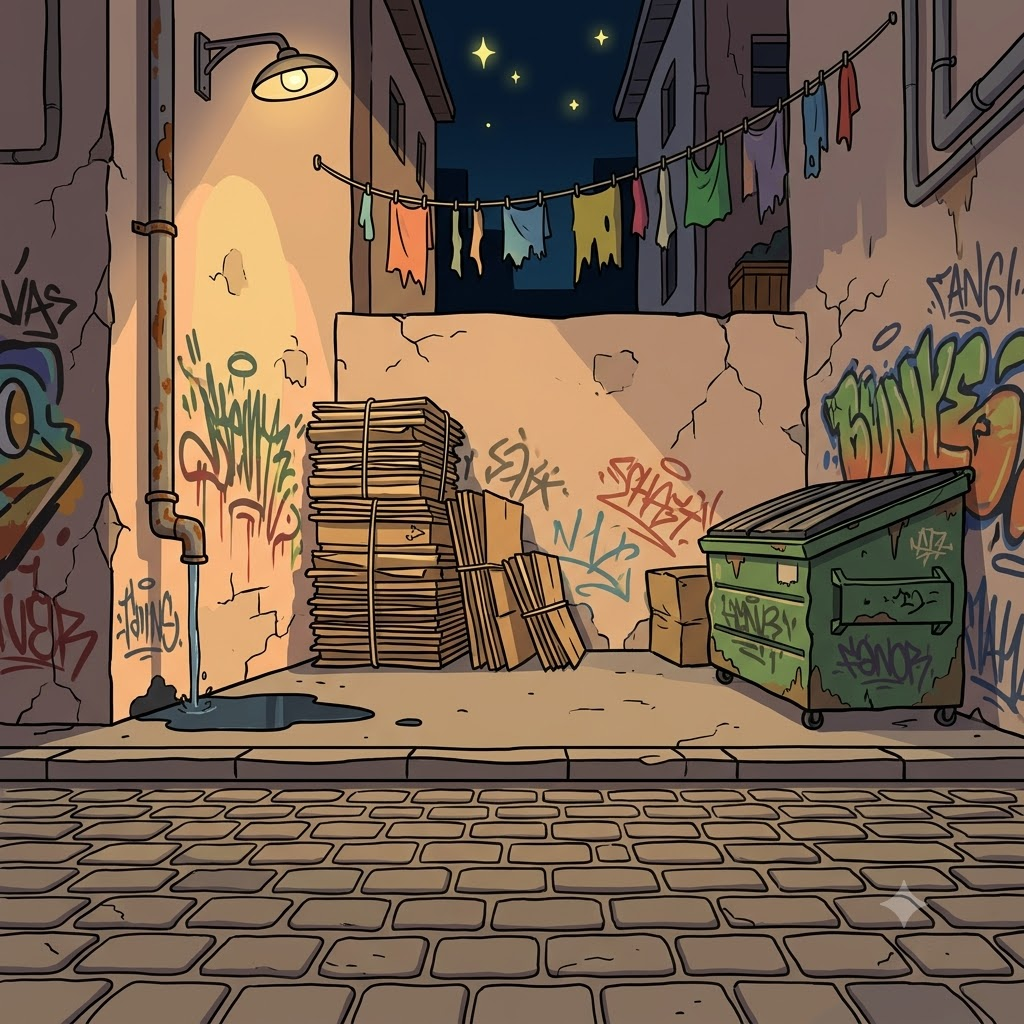
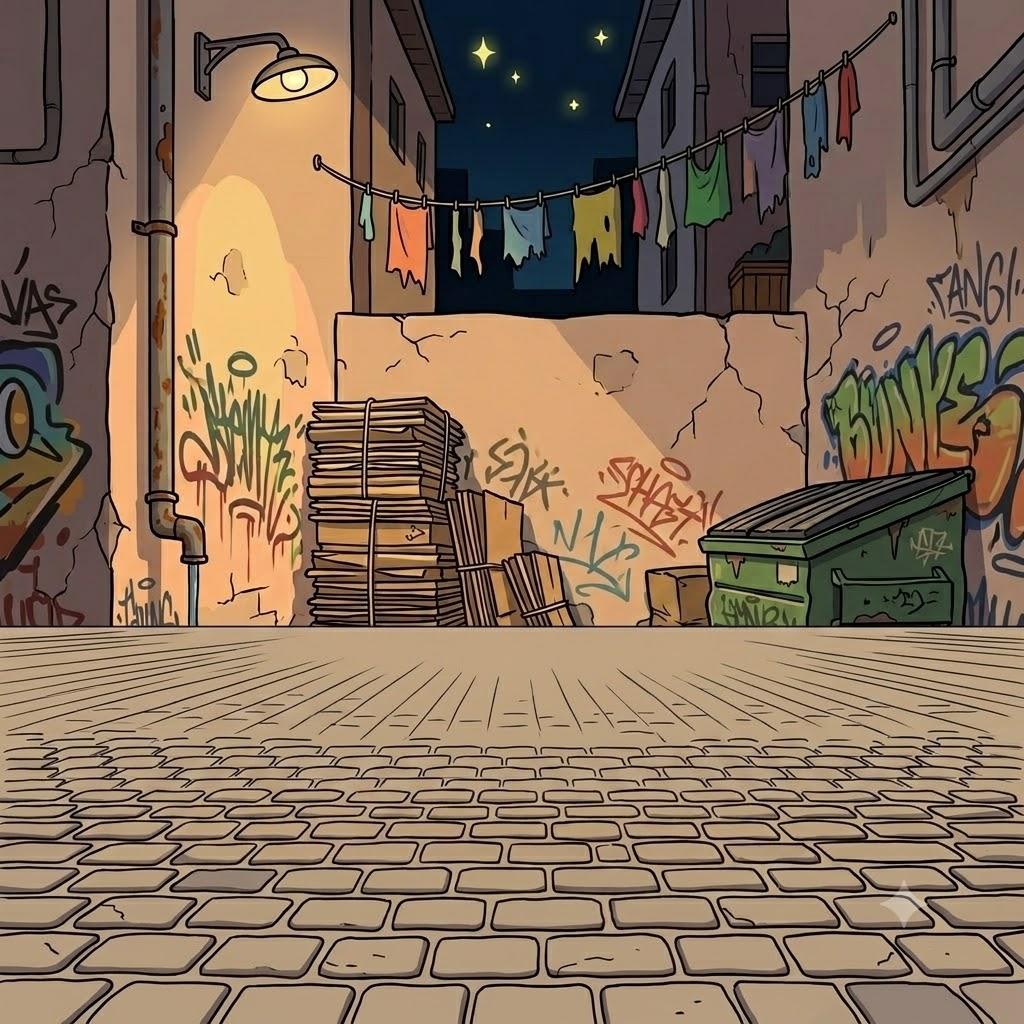
feat(arte): el callejón nuevo, con el piso en perspectiva que sí se lee
Tercera iteración del prompt y la primera que sirve. El adoquinado tiene
perspectiva con líneas convergentes, textura propia y más detalle cerca del borde
inferior; el decorado —farol, ropa colgada, cartones, contenedor— quedó intacto.

Medido, y el número que importa es el de PANTALLA, no el del PNG: `FloorNode`
escala en aspect-fill con 18% de sobremedida y ancla abajo, así que la franja
rinde más que en el cuadrado.

| | en el PNG | en pantalla (402×874) |
|---|---|---|
| viejo | 32% | ~37,8% |
| nuevo | 38,5% | **~45,4%** |

`crowdTopRatio` está en 0,40: antes el piso dibujado terminaba ANTES que la banda
de personajes (37,8% < 40%) y por eso los de las filas de atrás flotaban. Ahora
termina después, con margen.

No llega al 60% pedido. Ir hasta ahí obliga a comprimir el decorado a un tercio
del canvas y en el callejón eso se lleva puestos el farol y la ropa colgada, que
es lo que le da carácter. Se prefiere el 45% que resuelve el problema.

⚠ `crowdTopRatio` NO se toca todavía: los otros nueve pisos siguen con el arte
viejo, y subirla ahora los haría flotar a ellos. Va cuando estén los diez.

Changed region(s): [[0.0, 0.5938, 1.0, 1.0], [0.3438, 0.4375, 0.4062, 0.4688]]

diff --git a/Tools/asset-pipeline/prompts/gemini_pro/47_bg_alley.md b/Tools/asset-pipeline/prompts/gemini_pro/47_bg_alley.md
@@ -2,7 +2,7 @@
 
 - **archivo**: `bg_alley.png`
 - **referencia**: adjuntar `dropbox/procesadas/bg_alley.ORIGINAL-2026-08.png`
-- **estado**: pendiente
+- **estado**: hecho
 - **destino**: Tools/asset-pipeline/dropbox/
 
 ## Prompt
